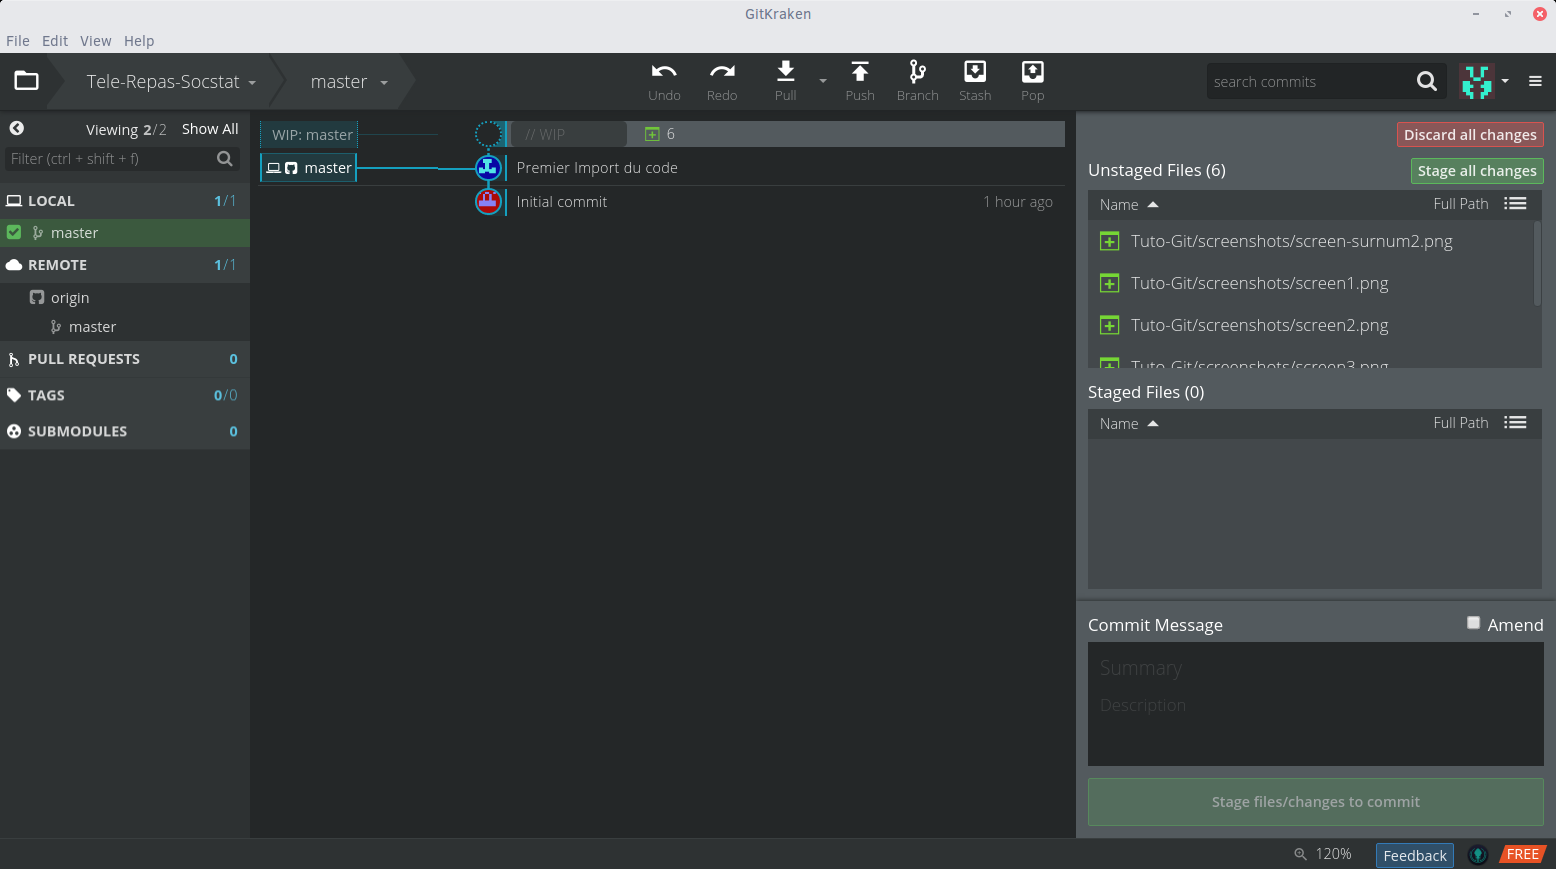
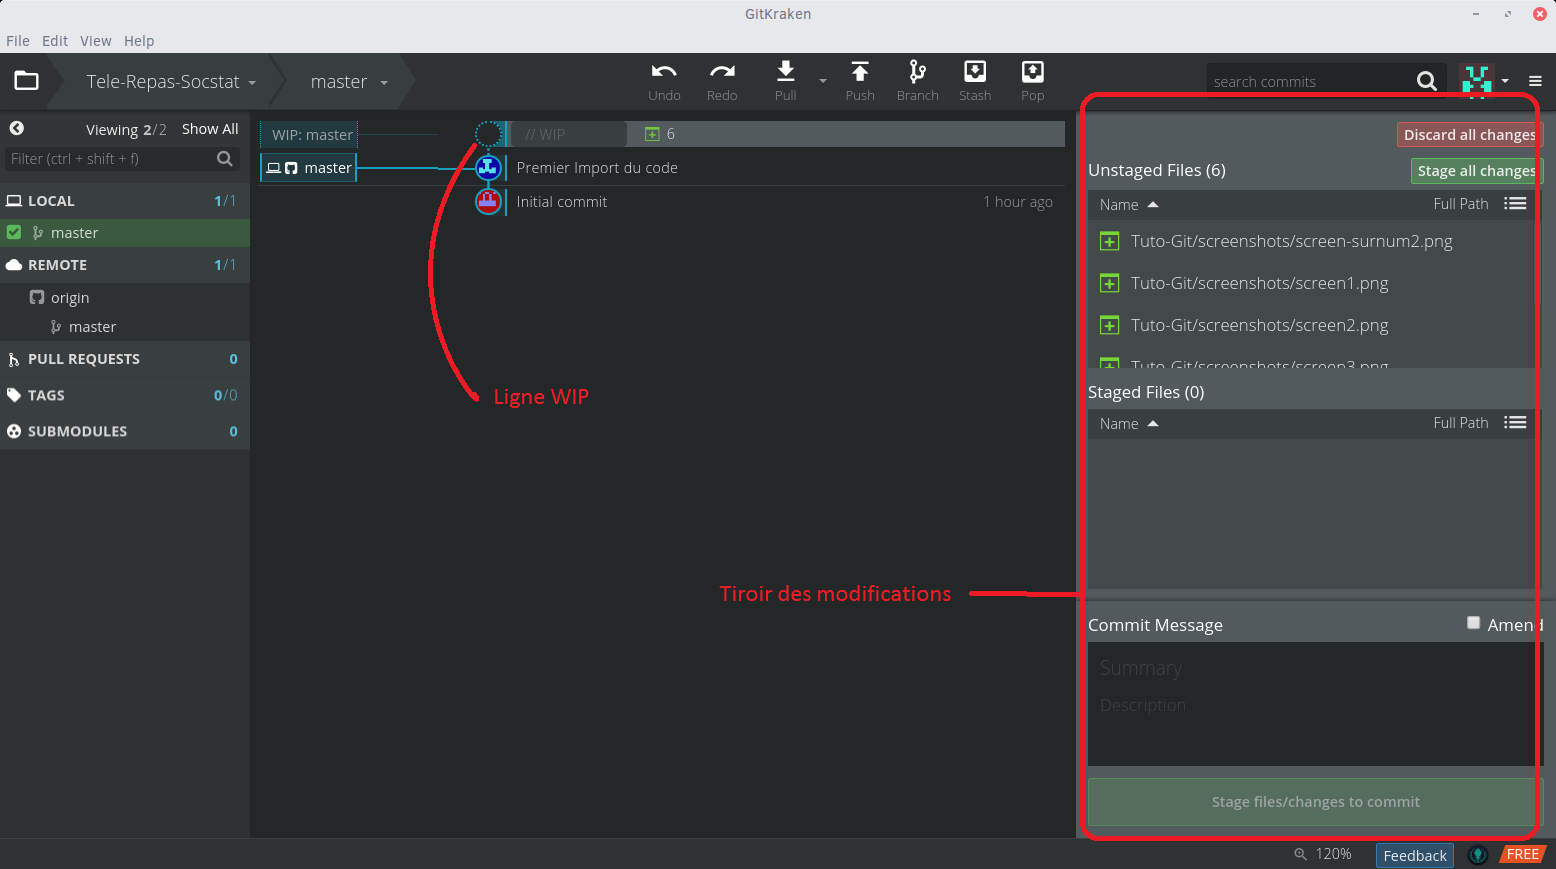
Mise a jour des screenshot
Mise a jour des screenshots du tuto

diff --git a/Tuto-Git/tuto.md b/Tuto-Git/tuto.md
@@ -36,18 +36,18 @@ Gitkraken est un client graphique pour Git.
 Un login est demandé la première fois que vous ouvrez le programme, il est possible de s'identifier via le compte github que vous venez de créer en cliquant sur l'option *login with github*.  
 Une fois que vous vous êtes identifiés, il vous faut générer une clé ssh. Cliquez sur les trois lignes en haut à droite de la fenêtre, puis sur "préférences". Une fois dans les préférences, cliquez sur "authentification", puis github.com, entrez de nouveau vos identifiants github en cliquant sur "connect to github" si besoin, puis cliquez sur "Generate SSH key and add to GitHub".  
 
-![ScreenShot](https://github.com/tenroc/Git-tuto-soctsat/blob/master/screenshots/screen1.png)
+![ScreenShot](https://github.com/tenroc/Tele-Repas-Socstat/blob/master/Tuto-Git/screenshots/screen1.png)
 
 Une fois la clé ssh ajoutée a votre compte Github, vous pouvez quitter les préférences.  
 Une fois revenus sur l'écran principal, cliquez sur "File", puis sur "Clone repo".  
 Allez sur l'onglet Github, puis, cliquez sur Télé-repas-socstat (qui apparaît normalement si je vous ai ajouté en tant que collaborateurs, sinon vous pouvez normalement ajouter manuellement l'url du dépôt: https://github.com/tenroc/Tele-Repas-Socstat). Vous pouvez aussi modifier le chemin du dossier clone du dépôt qui sera créé sur votre machine dans le champ "Where to clone to" et "Full path".
 
-![ScreenShot](https://github.com/tenroc/Git-tuto-soctsat/blob/master/screenshots/screen2.png)
+![ScreenShot](https://github.com/tenroc/Tele-Repas-Socstat/blob/master/Tuto-Git/screenshots/screen2.png)
 
 Confirmez en cliquant sur "clone the repo!", Attendez la fin du clonage, puis cliquez sur le bandeau qui viens d'apparaître: "Open now".  
 Ce qui dois apparaître à l'écran doit a peu près ressembler à ça:
 
-![ScreenShot](https://github.com/tenroc/Git-tuto-soctsat/blob/master/screenshots/screen3.png)
+![ScreenShot](https://github.com/tenroc/Tele-Repas-Socstat/blob/master/Tuto-Git/screenshots/screen3.png)
 
 **Git**
 
@@ -71,7 +71,7 @@ La modification par deux contributeurs différents d'un même bout de script peu
 
 Les changements que vous effectuez sont signifiés de la manière suivante (il faut cliquer sur la ligne WIP de la fenêtre principale pour que le tiroir s'affiche):
 
-![ScreenShot](https://github.com/tenroc/Git-tuto-soctsat/blob/master/screenshots/screen3.png)
+![ScreenShot](https://github.com/tenroc/Tele-Repas-Socstat/blob/master/Tuto-Git/screenshots/screen4.png)
 
 Le tiroir situé à droite de l'écran vous indique, de haut en bas:  
 
@@ -81,7 +81,7 @@ Le tiroir situé à droite de l'écran vous indique, de haut en bas:
 
 La fenêtre située au milieu de l'écran représente l'arborescence des commits:
 
-![ScreenShot](https://github.com/tenroc/Git-tuto-soctsat/blob/master/screenshots/screen3.png)
+![ScreenShot](https://github.com/tenroc/Tele-Repas-Socstat/blob/master/Tuto-Git/screenshots/screen5.png)
 
 Y sont représentés un historique, avec noms et commentaires, de tous les changements effectués sur le code. Y apparaissent aussi toutes les branches ouvertes et mergés de l'arborescence. Vous ne pouvez travailler que sur une branche à la fois, et vos fichiers locaux seront automatiquement adaptés en conséquence lorsque vous faites "Pull".
 Pour quelques notions sur les branches et l'arborescence: regarder la vidéo d'introduction de 2 minutes publiée par gitkraken (en anglais): https://www.youtube.com/watch?v=j1rP21RcbH0  
@@ -89,19 +89,19 @@ Si tous ça n'est pas clair, je devrais pouvoir a peu prés gérer les différen
 
 Apparaissent en grisé et en haut de l'écran, précédé de la mention WIP, les changements effectués par d'autres personnes, qui ont été publiés dans le dépôt, et que vous n'avez pas encore synchronisés avec vos fichiers locaux, ou les changements que vous avez effectués, et qui n'ont pas encore été pris en compte:
 
-![ScreenShot](https://github.com/tenroc/Git-tuto-soctsat/blob/master/screenshots/screen3.png)
+![ScreenShot](https://github.com/tenroc/Tele-Repas-Socstat/blob/master/Tuto-Git/screenshots/screen6.png)
 
 Les icones à gauche des dernières lignes vous indiquent ou prennent place les changements, l'ordinateur pour les changements que vous avez effectués en local, la seconde icône pour les changements qui ont été effectués dans le dépôt. Lorsque les deux icônes apparaissent simultanément sur la dernière ligne, vos fichiers locaux sont synchrones avec ceux sur le dépôt.
 
-![ScreenShot](https://github.com/tenroc/Git-tuto-soctsat/blob/master/screenshots/screen3.png)
+![ScreenShot](https://github.com/tenroc/Tele-Repas-Socstat/blob/master/Tuto-Git/screenshots/screen7.png)
 
 Si vous cliquez sur un commit dans l'arborescence: vous aurez accès au commentaire associé, ainsi qu'au nom de la personne qui l'a publié.
 
-![ScreenShot](https://github.com/tenroc/Git-tuto-soctsat/blob/master/screenshots/screen3.png)
+![ScreenShot](https://github.com/tenroc/Tele-Repas-Socstat/blob/master/Tuto-Git/screenshots/screen8.png)
 
 Enfin, les icones en haut de l'écran vous permettent, de gauche à droite:  
 
-![ScreenShot](https://github.com/tenroc/Git-tuto-soctsat/blob/master/screenshots/screen3.png)
+![ScreenShot](https://github.com/tenroc/Tele-Repas-Socstat/blob/master/Tuto-Git/screenshots/screen9.png)
 
 * D'annuler le dernier commit que vous avez réalisé
 * De le restaurer
@@ -117,4 +117,9 @@ WIP
 
 Si tout ça vous paraît affreusement compliqué, ou qu'il y a quelque chose qui n'est pas clair, écrivez moi un mail, ou ouvrez un bug report sur github.  
 Si vous n'avez absolument rien capté, sachez qu'il est aussi possible que j'administre (ou quelqu'un d'autre) le dépôt, et donc que tous les changements soient validés avant d'être pris en compte, ça demande tout de même d'intégrer les bases décrites plus haut, mais ça évite que qui que ce soit fasse une bêtise. ça pourrait aussi éventuellement permettre de reviewer le code avant de l'accepter.  
-Le tuto est dans le dépôt github du cours, et est écrit en markdown, vous pouvez le modifier comme vous voulez.
+Le tuto est dans le dépôt github du cours, et est écrit en markdown, vous pouvez le modifier comme vous voulez.  
+
+Quelques ressources supplémentaires:  
+
+* https://guides.github.com/activities/hello-world/
+* http://stackoverflow.com/questions/tagged/github <- pour obtenir de l'aide
